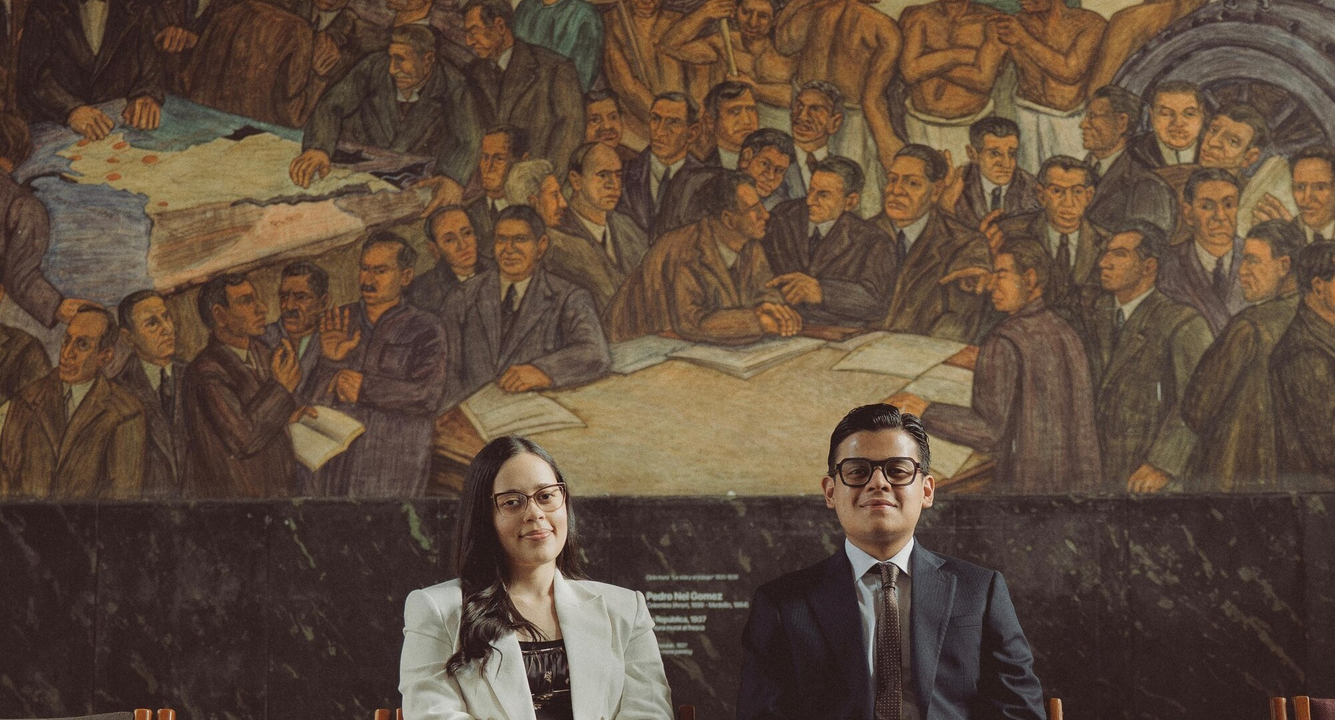
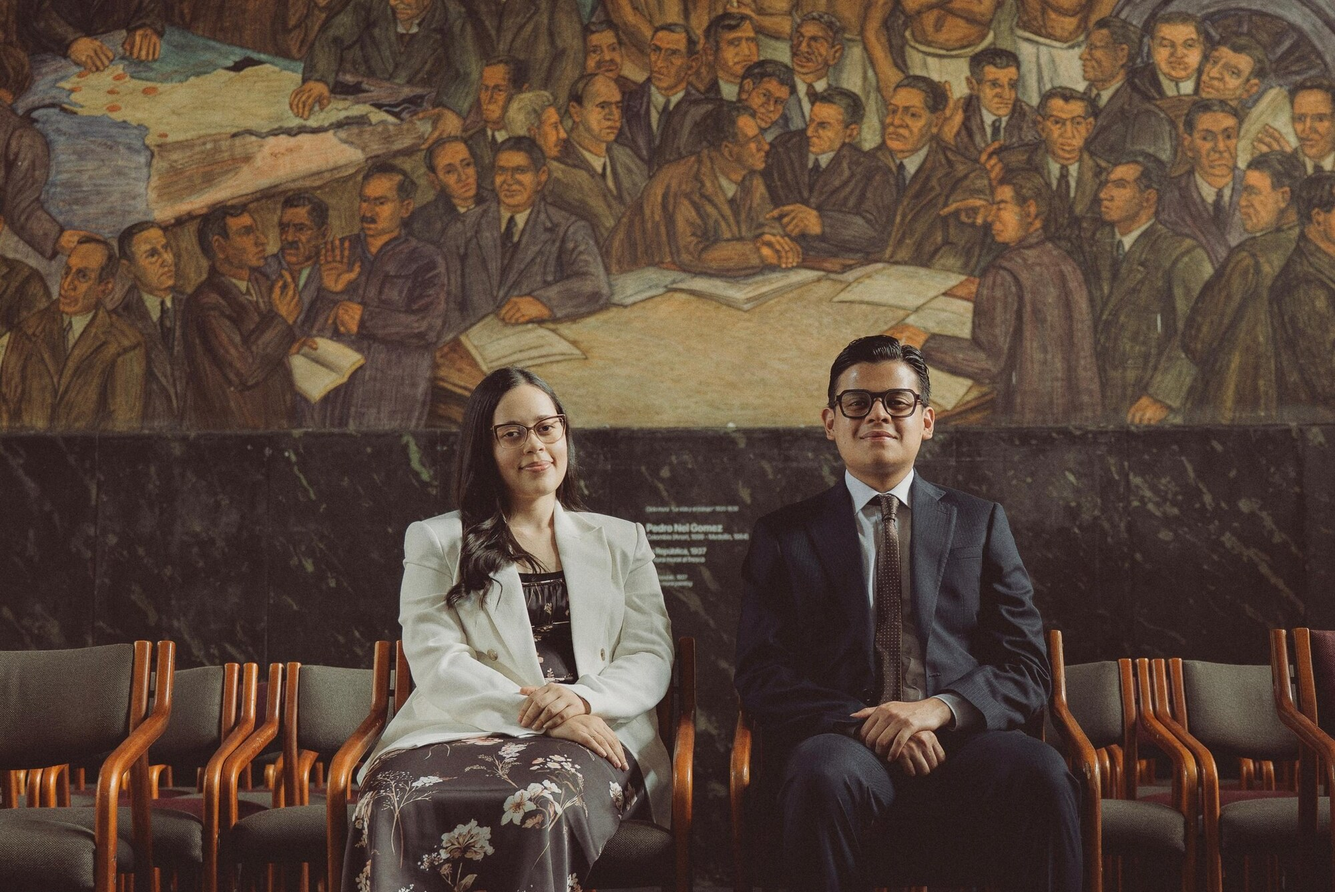
Bajar recorte del mural para mostrar más a la pareja
Incluye más torso y sillas de Daniel y Manuela en la sección.

diff --git a/src/app/page.tsx b/src/app/page.tsx
@@ -108,7 +108,7 @@ export default function Home() {
           alt="Daniel y Manuela"
           fill
           unoptimized
-          className="object-cover object-[center_45%]"
+          className="object-cover object-[center_58%] sm:object-[center_55%]"
           sizes="100vw"
         />
         <div className="absolute inset-0 bg-night/60" />
